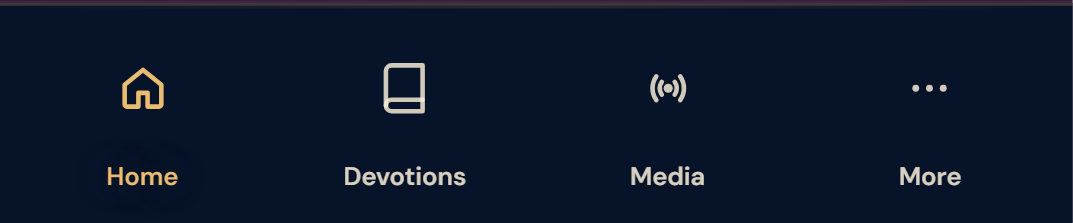
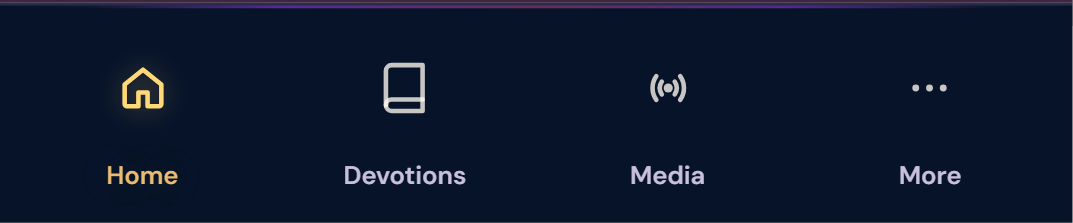
polish(home v3): give gold streak, nav, story controls, hero
Finishing pass on Give metallic lighting, home-scoped bottom nav violet chrome, Create Story/Reel gold-outline circles, and hero warmth; refresh signed-in and guest screenshot evidence.

diff --git a/src/app/premium-home-v3.css b/src/app/premium-home-v3.css
@@ -287,22 +287,48 @@ body.premium-home-v3-active .ph4-tile__label {
   letter-spacing: 0.02em;
 }
 
-/* Give — violet panel with warm-gold streak */
+/* Give — violet panel with diagonal metallic-gold streak */
 body.premium-home-v3-active .ph4-give {
+  position: relative;
+  overflow: hidden;
   gap: 0.55rem;
   align-items: center;
   border: 1px solid color-mix(in srgb, var(--home-v3-border) 90%, transparent);
   border-radius: var(--home-v3-radius-panel);
   background:
+    radial-gradient(ellipse 90% 80% at 12% 50%, rgba(138, 53, 232, 0.28), transparent 58%),
     linear-gradient(
-      112deg,
-      rgba(138, 53, 232, 0.22) 0%,
-      rgba(48, 16, 96, 0.85) 42%,
-      rgba(29, 2, 72, 0.92) 100%
-    ),
-    radial-gradient(ellipse 55% 120% at 100% 50%, rgba(246, 198, 107, 0.22), transparent 58%);
+      165deg,
+      rgba(48, 16, 96, 0.78) 0%,
+      rgba(29, 2, 72, 0.9) 55%,
+      rgba(19, 1, 52, 0.94) 100%
+    );
   padding: 0.55rem 0.62rem;
-  box-shadow: 0 8px 26px rgba(0, 0, 0, 0.32);
+  box-shadow:
+    0 8px 26px rgba(0, 0, 0, 0.32),
+    inset 0 1px 0 rgba(215, 166, 255, 0.08);
+}
+
+body.premium-home-v3-active .ph4-give::before {
+  content: "";
+  position: absolute;
+  inset: -55% -25% -55% -40%;
+  z-index: 0;
+  pointer-events: none;
+  background: linear-gradient(
+    118deg,
+    transparent 38%,
+    rgba(255, 217, 120, 0.06) 44%,
+    rgba(246, 198, 107, 0.22) 50%,
+    rgba(255, 217, 120, 0.12) 56%,
+    transparent 64%
+  );
+  transform: rotate(-4deg);
+}
+
+body.premium-home-v3-active .ph4-give > * {
+  position: relative;
+  z-index: 1;
 }
 
 body.premium-home-v3-active .ph4-give__text {
@@ -327,9 +353,12 @@ body.premium-home-v3-active .ph4-give__icon {
   height: 2.15rem;
   padding: 0;
   border-radius: 999px;
-  border: 1px solid color-mix(in srgb, var(--home-v3-gold) 45%, transparent);
-  background: linear-gradient(145deg, rgba(255, 217, 120, 0.32), rgba(188, 129, 46, 0.28));
-  color: var(--home-v3-midnight);
+  border: 1px solid color-mix(in srgb, var(--home-v3-gold-bright) 72%, transparent);
+  background: linear-gradient(152deg, #ffd978 0%, #f6c66b 46%, #bc812e 100%);
+  color: #2a1038;
+  box-shadow:
+    inset 0 1px 0 rgba(255, 255, 255, 0.38),
+    0 2px 10px rgba(246, 198, 107, 0.28);
 }
 
 body.premium-home-v3-active .ph4-give__icon svg {
@@ -595,9 +624,10 @@ body.premium-home-v3-active
   height: var(--ph2-story);
   margin: 0;
   border-radius: 999px;
-  border: 2px dashed rgba(242, 203, 136, 0.42);
-  background: rgba(18, 48, 92, 0.85);
-  color: var(--ph2-gold);
+  border: 2px dashed color-mix(in srgb, var(--home-v3-gold) 58%, transparent);
+  background: color-mix(in srgb, var(--home-v3-midnight) 68%, transparent);
+  color: var(--home-v3-gold-bright);
+  box-shadow: inset 0 0 0 1px rgba(138, 53, 232, 0.14);
   font-size: 1.35rem;
   font-weight: 700;
 }
@@ -636,10 +666,11 @@ body.premium-home-v3-active
   height: var(--ph2-story);
   margin: 0;
   border-radius: 999px;
-  border: 2px solid rgba(242, 203, 136, 0.32);
-  background: rgba(28, 52, 88, 0.92);
+  border: 2px solid color-mix(in srgb, var(--home-v3-gold) 52%, transparent);
+  background: color-mix(in srgb, var(--home-v3-midnight) 68%, transparent);
   font-size: 0.95rem;
-  color: var(--ph2-gold);
+  color: var(--home-v3-gold-bright);
+  box-shadow: inset 0 0 0 1px rgba(138, 53, 232, 0.14);
 }
 
 /* Story rings — same geometry as Community V6 */
@@ -847,18 +878,66 @@ body.premium-home-v3-active.premium-home-v4-active[data-shell="mobile"] .mobile-
 
 body.premium-home-v3-active.premium-home-v4-active .app-mobile-bottom-nav,
 body.premium-home-v3-active.premium-home-v4-active[data-shell="mobile"] .mobile-bottom-nav {
-  background: color-mix(in srgb, var(--home-v3-midnight) 92%, var(--home-v3-deep-violet)) !important;
-  border-top: 1px solid color-mix(in srgb, var(--home-v3-gold) 22%, transparent) !important;
-  box-shadow: 0 -10px 36px rgba(0, 0, 0, 0.42), inset 0 1px 0 rgba(138, 53, 232, 0.12) !important;
+  position: relative;
+  background: linear-gradient(
+    180deg,
+    color-mix(in srgb, var(--home-v3-deep-violet) 88%, var(--home-v3-midnight)) 0%,
+    var(--home-v3-midnight) 100%
+  ) !important;
+  border-top: 1px solid color-mix(in srgb, var(--home-v3-border) 70%, transparent) !important;
+  box-shadow: 0 -12px 40px rgba(0, 0, 0, 0.48) !important;
+}
+
+body.premium-home-v3-active.premium-home-v4-active[data-shell="mobile"] .mobile-bottom-nav::before {
+  content: "";
+  position: absolute;
+  left: 8%;
+  right: 8%;
+  top: 0;
+  height: 1px;
+  z-index: 2;
+  pointer-events: none;
+  background: linear-gradient(
+    90deg,
+    transparent,
+    rgba(138, 53, 232, 0.55) 22%,
+    rgba(214, 61, 173, 0.32) 50%,
+    rgba(138, 53, 232, 0.5) 78%,
+    transparent
+  );
 }
 
 body.premium-home-v3-active.premium-home-v4-active[data-shell="mobile"] .mobile-bottom-nav::after {
-  background: color-mix(in srgb, var(--home-v3-midnight) 92%, var(--home-v3-deep-violet)) !important;
+  background: linear-gradient(
+    180deg,
+    color-mix(in srgb, var(--home-v3-deep-violet) 88%, var(--home-v3-midnight)) 0%,
+    var(--home-v3-midnight) 100%
+  ) !important;
 }
 
 body.premium-home-v3-active.premium-home-v4-active[data-shell="mobile"] .mobile-nav-link.is-active {
   color: var(--home-v3-gold-bright) !important;
-  text-shadow: 0 0 18px rgba(246, 198, 107, 0.25);
+  text-shadow: 0 0 14px rgba(246, 198, 107, 0.22);
+}
+
+body.premium-home-v3-active.premium-home-v4-active[data-shell="mobile"] .mobile-nav-link.is-active .mobile-nav-icon-shell {
+  background: transparent !important;
+  background-color: transparent !important;
+  box-shadow: none !important;
+  color: var(--home-v3-gold-bright) !important;
+}
+
+body.premium-home-v3-active.premium-home-v4-active[data-shell="mobile"] .mobile-nav-link.is-active .mobile-nav-icon {
+  color: var(--home-v3-gold-bright) !important;
+  filter: drop-shadow(0 0 5px rgba(246, 198, 107, 0.4));
+}
+
+body.premium-home-v3-active.premium-home-v4-active[data-shell="mobile"] .mobile-nav-link:not(.is-active) {
+  color: var(--home-v3-text-secondary) !important;
+}
+
+body.premium-home-v3-active.premium-home-v4-active[data-shell="mobile"] .mobile-nav-link:not(.is-active) .mobile-nav-icon {
+  color: color-mix(in srgb, var(--home-v3-text-primary) 78%, transparent) !important;
 }
 
 body.premium-home-v3-active.premium-home-v4-active .ph4-header-wordmark {
@@ -883,8 +962,27 @@ body.premium-home-v3-active .ph4-hero--v3 .ph4-hero__content {
 }
 
 body.premium-home-v3-active .ph4-hero--v3 .ph4-hero__image {
-  object-position: center 30%;
-  filter: saturate(1.18) contrast(1.06) brightness(1.04);
+  object-position: center 28%;
+  filter: saturate(1.22) contrast(1.07) brightness(1.06) sepia(0.04);
+}
+
+body.premium-home-v3-active .ph4-hero--v3 .ph4-hero__glow--violet {
+  opacity: 0.78;
+}
+
+body.premium-home-v3-active .ph4-hero--v3 .ph4-hero__glow--gold {
+  opacity: 0.64;
+  background: rgba(255, 217, 120, 0.38);
+}
+
+body.premium-home-v3-active .ph4-hero--v3 .ph4-hero__scrim {
+  background: linear-gradient(
+    182deg,
+    rgba(9, 1, 26, 0.06) 0%,
+    rgba(48, 16, 96, 0.28) 40%,
+    rgba(29, 2, 72, 0.62) 68%,
+    rgba(9, 1, 26, 0.93) 100%
+  );
 }
 
 body.premium-home-v3-active .ph4-hero--v3 .ph4-hero__title {

diff --git a/docs/premium-home-v3-screenshots/VISUAL_REVIEW.md b/docs/premium-home-v3-screenshots/VISUAL_REVIEW.md
@@ -4,6 +4,13 @@
 
 Compare captured PNGs in this folder against that mockup at **390×844** and **430×932**.
 
+## Pass 3 — finishing (`final finishing pass`)
+
+- **Give:** diagonal metallic-gold beam (`::before`), violet base wash, higher-contrast heart emblem.
+- **Bottom nav (home only):** indigo/violet gradient bar, violet top highlight, gold active Home icon (no teal shell).
+- **Create Story / Reel:** transparent midnight circles, gold outlines (no flat navy fill).
+- **Hero:** slightly warmer sunset grading + deeper violet scrim (image asset unchanged).
+
 ## Pass 2 corrections (`visual fidelity` commit)
 
 | Area | Mockup target | Implementation after pass |
